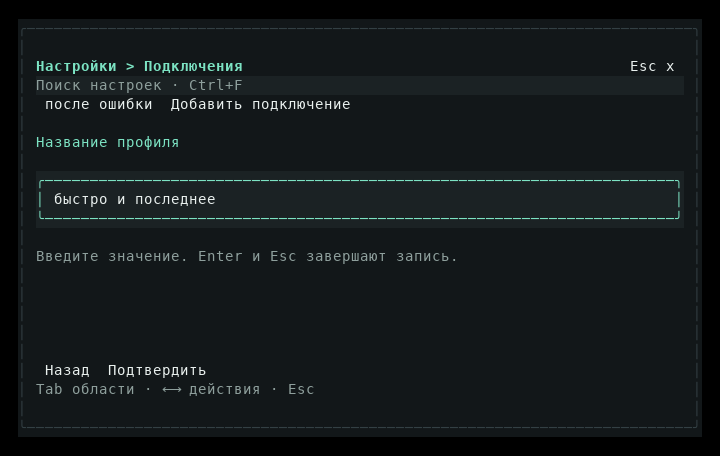
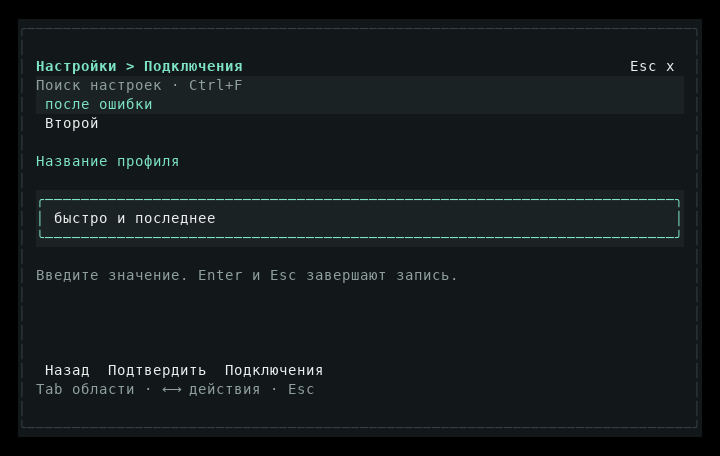
Сохранить список подключений при редактировании и дождаться записи перед доверием LSP

diff --git a/tests/unit/opentui-lsp-settings.test.tsx b/tests/unit/opentui-lsp-settings.test.tsx
@@ -174,3 +174,115 @@ test("LSP card explains Plan and disables explicit launch without asking the run
     await rm(directory, { recursive: true, force: true });
   }
 });
+
+test("explicit LSP trust waits for the pending autosave acknowledgement", async () => {
+  const directory = await mkdtemp(join(tmpdir(), "chisel-lsp-trust-barrier-"));
+  const configPath = join(directory, "config.json");
+  await saveGlobalConfig(
+    {
+      schemaVersion: 2,
+      profiles: {},
+      lsp: {
+        servers: {
+          fixture: {
+            backend: "generic",
+            command: process.execPath,
+            args: ["--version"],
+            languageIds: ["notes"],
+            extensions: [".notes"],
+            enabled: true,
+            trustedWorkspaces: [],
+          },
+        },
+      },
+    },
+    configPath,
+  );
+  let release: (() => void) | undefined;
+  let saving = false;
+  let trustCalls = 0;
+  const actions = new LspSettingsStore(directory, configPath, {
+    status: async () => ({
+      workspaceRoot: directory,
+      backend: "generic",
+      state: "stopped",
+      generation: 0,
+      trackedDocuments: 0,
+      requiresRestart: false,
+    }),
+    apply: async () => {
+      if (!saving) {
+        saving = true;
+        await new Promise<void>((done) => {
+          release = done;
+        });
+      }
+    },
+    restart: async () => {
+      throw new Error("Trust must not start a server");
+    },
+  });
+  const originalTrust = actions.trust.bind(actions);
+  actions.trust = async (...args) => {
+    trustCalls++;
+    return originalTrust(...args);
+  };
+  const ui = await testRender(
+    <OpenTuiLspSettings
+      actions={actions}
+      palette={THEMES.paper}
+      width={100}
+      height={40}
+      active
+      focused
+      controls={{ current: undefined }}
+      onDirty={() => {}}
+      fieldTarget="node"
+    />,
+    { width: 100, height: 40 },
+  );
+  const frame = async () =>
+    act(async () => {
+      await new Promise((done) => setTimeout(done, 5));
+      await ui.renderOnce();
+    });
+  const until = async (ready: () => boolean) => {
+    const end = Date.now() + 4000;
+    while (!ready()) {
+      if (Date.now() > end) throw new Error(ui.captureCharFrame());
+      await frame();
+    }
+  };
+  const click = async (id: string) => {
+    await until(() => !!ui.renderer.root.findDescendantById(id));
+    const row = ui.renderer.root.findDescendantById(id)!;
+    await act(async () => ui.mockMouse.click(row.x + 1, row.y));
+    await frame();
+  };
+  try {
+    await until(
+      () =>
+        ui.captureCharFrame().includes("Ручная форма") &&
+        !ui.captureCharFrame().includes("Применяется…"),
+    );
+    await click("lsp-row-enabled");
+    await until(() => saving);
+    await click("lsp-row-trust");
+    expect(trustCalls).toBe(0);
+    expect(
+      JSON.parse(await readFile(configPath, "utf8")).lsp.servers.fixture
+        .trustedWorkspaces,
+    ).toEqual([]);
+    await act(async () => release?.());
+    await until(() => ui.captureCharFrame().includes("Разрешён только"));
+    expect(trustCalls).toBe(1);
+    expect(
+      JSON.parse(await readFile(configPath, "utf8")).lsp.servers.fixture
+        .trustedWorkspaces,
+    ).toHaveLength(1);
+  } finally {
+    release?.();
+    act(() => ui.renderer.destroy());
+    await rm(directory, { recursive: true, force: true });
+  }
+});

diff --git a/src/ui/opentui-settings.tsx b/src/ui/opentui-settings.tsx
@@ -384,6 +384,7 @@ export function OpenTuiSettings({
     1,
     Math.floor(
       (bodyHeight -
+        (wide && page === "connection" && screen !== "profiles" ? 3 : 0) -
         1 -
         (screen === "providers" ||
         screen === "profiles" ||
@@ -859,6 +860,7 @@ export function OpenTuiSettings({
       const loaded = await actions.load(profileId);
       if (!valid()) return;
       setValues(loaded.values);
+      setAddingProfile(false);
       baseline.current = JSON.stringify(loaded.values);
       acknowledged.current = loaded.values;
       setHasKey(loaded.hasKey);
@@ -1290,6 +1292,20 @@ export function OpenTuiSettings({
       id: "settings-retry",
       label: "Повторить",
       run: saveCurrent,
+    });
+  if (page === "connection" && screen !== "profiles")
+    settingsMenuActions.push({
+      id: "settings-profiles-action",
+      label: "Подключения",
+      run: () => {
+        void connectionAutosave.flush().then((ok) => {
+          if (ok) {
+            setScreen("profiles");
+            setSelected(0);
+            setQuery("");
+          }
+        });
+      },
     });
   const actionNavigation = useMenuNavigation(
     ["actions"],
@@ -1759,6 +1775,33 @@ export function OpenTuiSettings({
           >
             {page === "connection" &&
               loaded &&
+              wide &&
+              screen !== "profiles" && (
+                <TerminalScrollbox
+                  id="settings-profile-list"
+                  height={3}
+                  flexShrink={0}
+                  width="100%"
+                >
+                  {Object.entries(profiles).map(([id, profile]) => (
+                    <DialogAction
+                      key={id}
+                      id={`settings-profile-${id}`}
+                      label={profile.label || id}
+                      active={values.profileId === id}
+                      palette={palette}
+                      onSelect={() => {
+                        void connectionAutosave.flush().then((ok) => {
+                          if (ok) switchProfile(id);
+                        });
+                      }}
+                    />
+                  ))}
+                </TerminalScrollbox>
+              )}
+            {page === "connection" &&
+              loaded &&
+              !wide &&
               (field || screen === "login") && (
                 <box height={tiny ? 1 : 2} flexShrink={0} flexDirection="row">
                   <DialogAction
@@ -2193,7 +2236,10 @@ export function OpenTuiSettings({
                             Math.max(
                               1,
                               Math.floor(
-                                (bodyHeight - 1 - (selector ? 1 : 0)) /
+                                (bodyHeight -
+                                  (wide && screen !== "profiles" ? 3 : 0) -
+                                  1 -
+                                  (selector ? 1 : 0)) /
                                   rowHeight,
                               ),
                             ),

diff --git a/src/ui/opentui-lsp-settings.tsx b/src/ui/opentui-lsp-settings.tsx
@@ -485,35 +485,35 @@ export function OpenTuiLspSettings({
     });
   };
   const trust = (id: string) => {
-    if (!state?.workspaceRoot) {
-      setNotice("Для доверия проекту выберите папку.");
-      return;
-    }
-    if (dirty) {
-      setNotice("Сначала сохраните ручную форму; доверие выдаётся отдельно.");
-      return;
-    }
-    run(async (signal) => {
-      const allowed = !state.global.servers[id]?.trustedWorkspaces.includes(
-        state.workspaceRoot ?? "",
-      );
-      const next = await actions.trust(id, allowed);
-      if (!alive.current || signal.aborted) return;
-      apply(next);
-      if (draft?.id === id) {
-        const value = {
-          ...draft,
-          trustedWorkspaces: next.global.servers[id]?.trustedWorkspaces ?? [],
-        };
-        setDraft(value);
-        baselineDraft.current = JSON.stringify(value);
+    void autosave.flush().then((ok) => {
+      if (!ok) return;
+      const current = stateRef.current;
+      if (!current?.workspaceRoot) {
+        setNotice("Для доверия проекту выберите папку.");
+        return;
       }
-      setNotice(
-        next.applicationError ??
-          (allowed
-            ? "Разрешён только этот canonical root. Сервер пока не запущен."
-            : "Доверие отозвано; новые запросы запрещены."),
-      );
+      run(async (signal) => {
+        const allowed = !current.global.servers[id]?.trustedWorkspaces.includes(
+          current.workspaceRoot ?? "",
+        );
+        const next = await actions.trust(id, allowed);
+        if (!alive.current || signal.aborted) return;
+        apply(next);
+        if (draft?.id === id) {
+          const value = {
+            ...draft,
+            trustedWorkspaces: next.global.servers[id]?.trustedWorkspaces ?? [],
+          };
+          setDraft(value);
+          baselineDraft.current = JSON.stringify(value);
+        }
+        setNotice(
+          next.applicationError ??
+            (allowed
+              ? "Разрешён только этот canonical root. Сервер пока не запущен."
+              : "Доверие отозвано; новые запросы запрещены."),
+        );
+      });
     });
   };
   const check = () => {
@@ -636,9 +636,7 @@ export function OpenTuiLspSettings({
           ? "Точный root разрешён"
           : "Отдельное явное разрешение",
         activate() {
-          if (originalId && originalId === draft.id) trust(draft.id);
-          else
-            setNotice("Сначала сохраните сервер, затем явно разрешите проект.");
+          trust(draft.id);
         },
       },
       ...draft.trustedWorkspaces.map((root, index) => ({

diff --git a/tests/unit/settings-autosave-runtime.test.tsx b/tests/unit/settings-autosave-runtime.test.tsx
@@ -130,6 +130,10 @@ test("native Settings autosaves through disk errors, fast edits, resize, close a
     expect(writes).toBe(0);
     expect(selected).toBe("b");
     await click("settings-row-profile-label");
+    expect(
+      view.renderer.root.findDescendantById("settings-profile-list"),
+    ).toBeDefined();
+    expect(view.captureCharFrame()).toContain("Второй");
     await act(async () => view.mockInput.pressKey("u", { ctrl: true }));
     await frame();
     await paste("без ключа");
